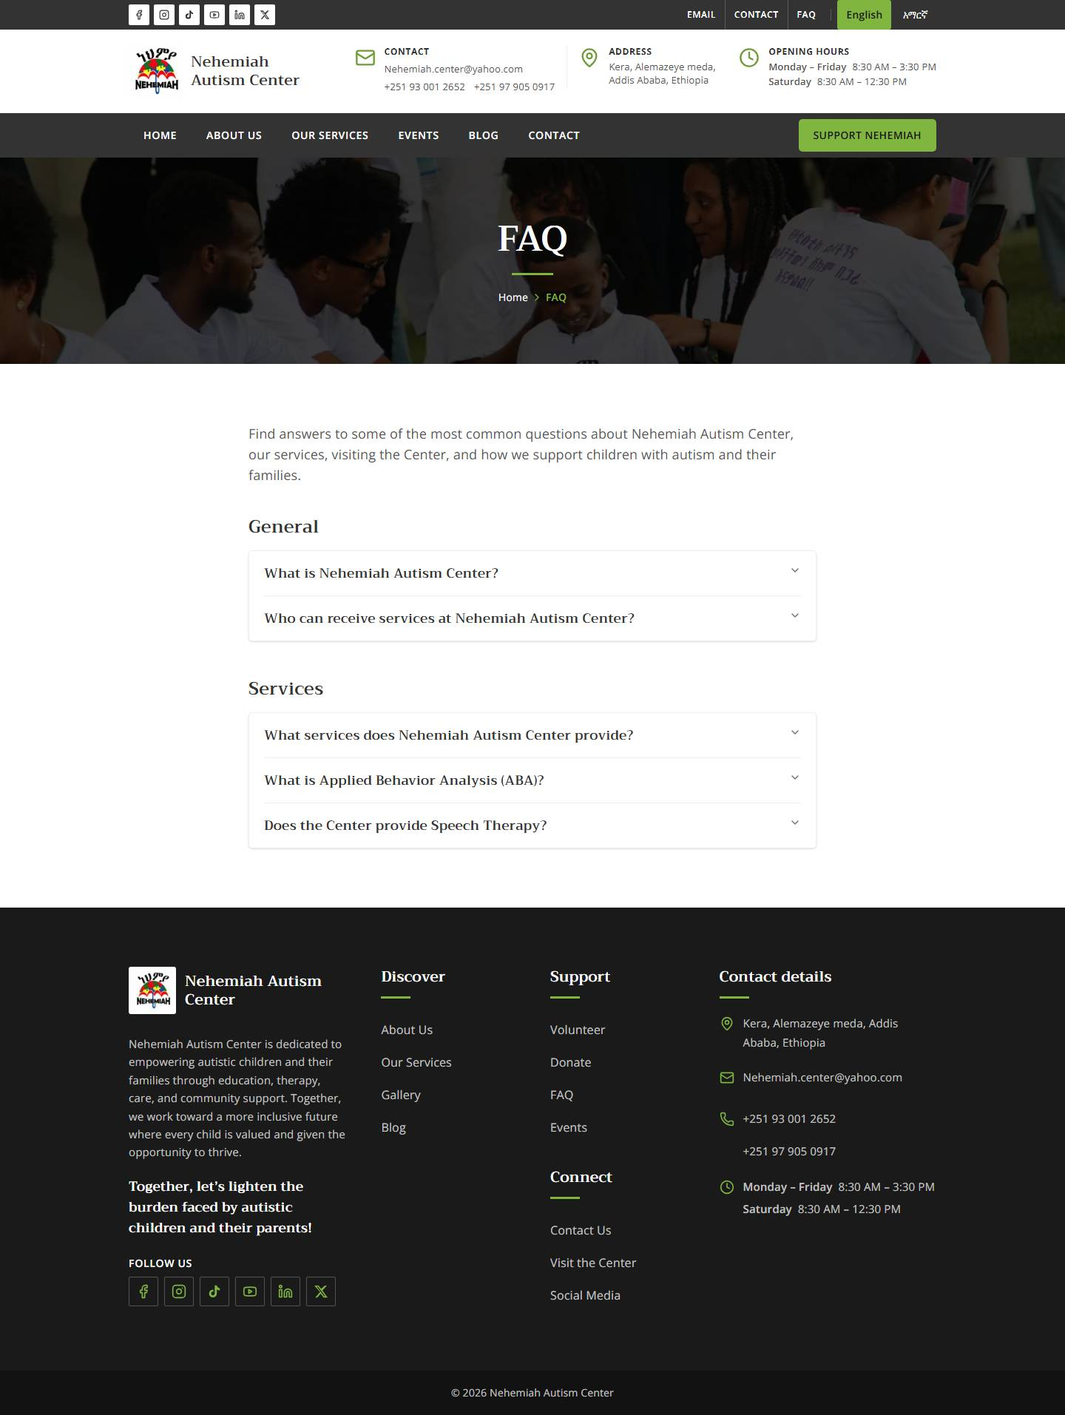
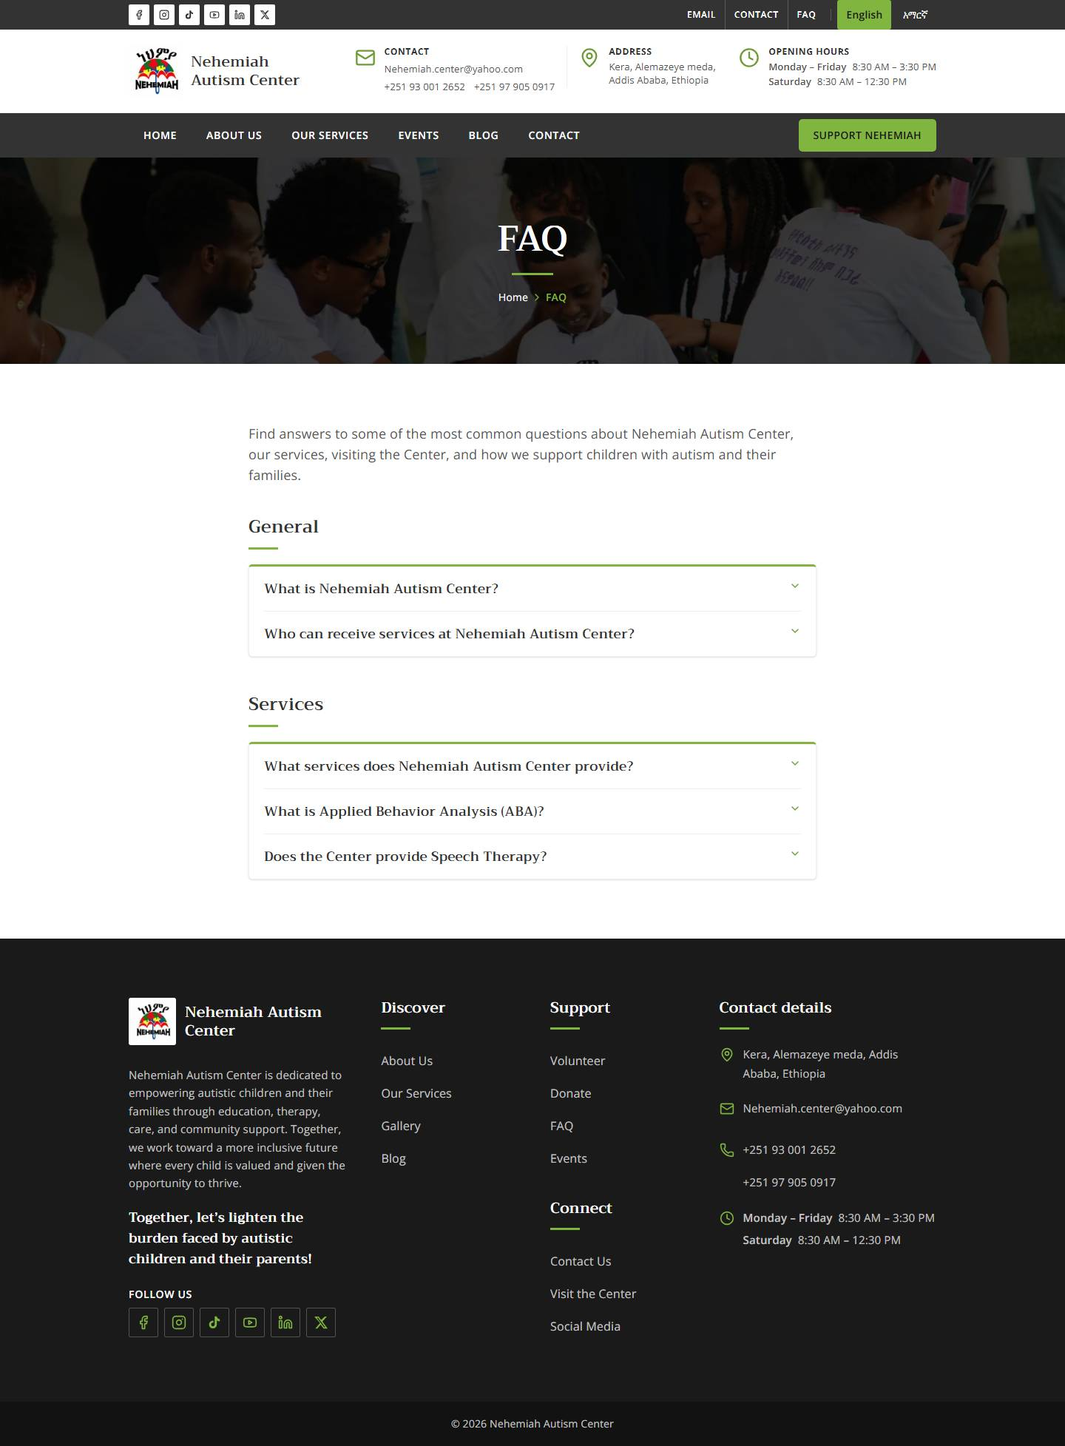
docs: second-pass review of the Generosity redesign
Records the independent re-verification (tsc, eslint, prettier, 144 unit tests,
fresh build, 274 browser tests all passing on the inherited code), the three
spec gaps the review found, and the final results after closing them (149 unit
tests, 274 browser tests).

- design-gap: new section listing where the build still differs from the written
  spec and why (footer grouping, single-word headings, closing CTA, header at
  tablet widths, map capture note)
- visual-review: states exactly what was viewed by eye vs covered only by
  automated checks; corrects the Google Maps note (lazy-loaded, renders after a
  wait)
- implementation / test-results: second-pass changes, run history, port notes
- founder-handoff: preview now on port 3004; stale servers on 3002/3003 flagged
- evidence: regenerated the five full-page images whose content changed; added
  three homepage gallery images

diff --git a/docs/frontend-review/NAC-GENEROSITY-IMPLEMENTATION.md b/docs/frontend-review/NAC-GENEROSITY-IMPLEMENTATION.md
@@ -58,7 +58,7 @@ The mobile sheet keeps the Radix focus trap, Escape and focus return. Its naviga
 
 **Feature strip.** Three cards, centre green, overlapping the hero by 64px from 1024px: Volunteer With Us · Support Our Mission · Partner With Us. They reuse approved button labels and existing routes; no new copy.
 
-**Homepage order.** Hero → feature strip → introduction (name, the hero continuation, intro, description, tagline; offset-green photo) → services (the three approved therapies) → impact (dark photographic band, bright-green cards for the three existing figures) → events → testimonials → blog → gallery (square grid) → location → closing CTA (dark photographic).
+**Homepage order.** Hero → feature strip → introduction (name, the hero continuation, intro, description, tagline; offset-green photo) → services (the three approved therapies) → impact (dark photographic band, bright-green cards for the three existing figures) → events → testimonials → blog → gallery (centred category filter and a four-column grid of eight photographs: the gallery browser in `preview` mode) → location → closing CTA (dark photographic).
 
 **Footer.** Four columns (brand, mission sentence, tagline and social; Discover; Support + Connect; contact details), green dividers under headings, separate darker copyright bar.
 
@@ -84,6 +84,9 @@ The mobile sheet keeps the Radix focus trap, Escape and focus return. Its naviga
 | `SectionHeading` gained `highlight` (default on); `eyebrow` kept | Last-word highlight |
 | `EventCard` / `BlogCard` gained a `horizontal` prop | A single card in a 1140px section |
 | `GalleryBrowser` thumbnails get a green hover overlay with a plus icon | Template detail; the lightbox, filter and focus return are untouched |
+| `GalleryBrowser` gained a `preview` prop; the homepage uses it instead of a hand-built link grid (second pass) | Spec §15 asks for category controls and about four images per row on the homepage. Preview mode shows only categories that really have photographs (3 of 13; the empty ones stay on `/gallery`), no counts, a centred filter, at most 8 tiles in 4 columns, and keeps the lightbox. The full-page behaviour is unchanged (the existing gallery tests still pass untouched) |
+| `GALLERY_PREVIEW_IDS` 6 → 8 photographs (`mascot-cones`, `walk-crowd` added) | Two full rows of four. Existing demonstration photographs only |
+| FAQ: green divider under each category heading, green top rule on the panel, green chevrons, open question in dark green (second pass) | Spec §20 asks for green accents. Done with `className` on the existing accordion, so the shadcn primitive is untouched. Contrast: chevron 3.3 : 1 (graphics need 3), open text 5.3 : 1 |
 | New: `PhotoSection`, `FeatureStrip`, `PAGE_BANNERS` | Shared dark photographic band; feature strip; banner photographs |
 | Footer tagline retained | A unit test caught that the first rewrite dropped it; restored, not the test |
 
@@ -92,11 +95,18 @@ The mobile sheet keeps the Radix focus trap, Escape and focus return. Its naviga
 New: `PhotoSection.tsx`, `FeatureStrip.tsx`.
 Rewritten: `globals.css`, `Container`, `Section`, `ButtonLink`, `SectionHeading`, `SocialLinks`, `LanguageSwitcher`, `SiteHeader`, `SiteFooter`, `PageBanner`, `HeroSection`, `ImpactStats`, `ClosingCtaSection`, `HomePage`, `ServiceCards`, `EventCard`, `BlogCard`, `TestimonialsSection`.
 Edited: `fonts.ts`, `media.ts`, `ContactDetails`, About / Services / Volunteer / FAQ / Contact / Donate / Events / Event detail / Blog / Blog post / Gallery pages, `GalleryBrowser`, `ContactForm`, `LocationSection`, `BackToTop`, `error.tsx`, `not-found.tsx`, public `layout.tsx`.
+Second pass edited: `HomePage.tsx`, `GalleryBrowser.tsx`, `gallery/data/index.ts`, `FaqPage.tsx`.
 Tests edited: `tests/e2e/responsive.spec.ts`, `tests/e2e/site.spec.ts`, `tests/e2e/links-and-interactions.spec.ts` (each change explained in `NAC-GENEROSITY-TEST-RESULTS.md`).
+Tests added (second pass): five unit tests for the gallery preview in `tests/unit/gallery/gallery.test.tsx`. No existing test was edited in the second pass.
 
 ## 8. Not done / limits
 
 - The template's source was unavailable, so exact spacing, icon shapes and hover behaviour are interpretations of the written spec.
 - The hero and banner photographs are the existing demonstration images (register MD-01 still applies; they include identifiable children).
 - Amharic outside the document's own text is still English fallback or provisional, as in PR #3.
-- The homepage gallery is a link grid; the filter and lightbox are on `/gallery`.
+- The homepage now ships the interactive gallery (filter and lightbox), so its first-load JavaScript grew from 111 kB to 139 kB (+28 kB, mostly the dialog library). It could be lazy-loaded below the fold if page weight matters more than simplicity.
+- The footer keeps the link groups from the approved content document (Discover / Support / Connect); it does not follow the spec's suggested grouping (see the design-gap report, §6).
+
+## 9. Second pass: re-verification and gap closure
+
+A first pass produced everything above. A second session did not trust that record: it re-ran type-check, lint, format, unit tests, a fresh production build and the full browser suite on the inherited code (all green, same numbers as reported), then reviewed the pages in a real browser against the written spec. That review found three spec gaps, closed in this pass: the homepage gallery (no category controls, three columns, six photographs), the FAQ (no green accent), and documentation of the remaining deliberate differences. Things looked at and left alone on purpose are listed in the design-gap report, §6.

diff --git a/docs/frontend-review/NAC-GENEROSITY-TEST-RESULTS.md b/docs/frontend-review/NAC-GENEROSITY-TEST-RESULTS.md
@@ -1,6 +1,6 @@
 # Generosity-inspired redesign — test results
 
-Branch `experiment/generosity-visual-redesign`. Windows 11, Node 22, pnpm 10.32, Playwright 1.58 with Chromium. Browser tests ran against the **production build** (`NEXT_STANDALONE=0 pnpm build`, then `next start -p 3002`), not the dev server. The final numbers below are from the final code; the last source change (a shadow on the feature strip) was followed by a full re-run of every check.
+Branch `experiment/generosity-visual-redesign`. Windows 11, Node 22, pnpm 10.30, Playwright 1.58 with Chromium. Browser tests ran against the **production build** (`NEXT_STANDALONE=0 pnpm build`, then `next start`), not the dev server. The numbers below are from the **final code of the second pass**: its last source change (homepage gallery preview and FAQ accents) was followed by a rebuild and a full re-run of every check. Nothing in `frontend/` changed after that run (only documentation and screenshots).
 
 ## 1. Final results
 
@@ -9,9 +9,9 @@ Branch `experiment/generosity-visual-redesign`. Windows 11, Node 22, pnpm 10.32,
 | `tsc --noEmit` | **0 errors** |
 | `eslint .` | **0 problems** |
 | `prettier --check src tests` | **pass** |
-| Unit and component tests (`vitest run`) | **144 passed, 0 failed** (9 files). No unit test file was edited |
-| Production build (`NEXT_STANDALONE=0`) | **passed**, 33 static pages |
-| Playwright (Chromium) on the production build | **274 passed, 0 failed**, 29 skipped |
+| Unit and component tests (`vitest run`) | **149 passed, 0 failed** (9 files): the 144 from the first pass plus 5 new gallery-preview tests. No existing test was edited |
+| Production build (`NEXT_STANDALONE=0`) | **passed**, 33 static pages. Homepage first-load JS 139 kB (was 111 kB before the interactive gallery) |
+| Playwright (Chromium) on the production build | **274 passed, 0 failed**, 29 skipped, no retries |
 
 The 29 skipped are the evidence-capture specs, which run only when `CAPTURE_EVIDENCE=1`. They were skipped on purpose: they write into `docs/frontend-review/evidence/` (PR #3's "before" images), which this experiment must not overwrite. The new screenshots were taken with a separate script into `evidence-generosity/`.
 
@@ -23,7 +23,9 @@ What the 274 browser tests cover (unchanged suite, run against the redesign): ev
 |---|---|---|
 | 1 (first full run on the redesign) | 266 passed, **8 failed** | see below |
 | 2 (after fixes) | 274 passed, 0 failed | |
-| Final (after the last visual tweak) | 274 passed, 0 failed | |
+| 3 (first pass, after the last visual tweak) | 274 passed, 0 failed | |
+| 4 (second pass: fresh build of the inherited code, before any change) | 274 passed, 0 failed | Independent re-verification of the first pass. tsc, eslint, prettier and vitest (144) were also re-run and passed |
+| 5 (second pass, final code) | 274 passed, 0 failed | After the gallery preview and FAQ changes, on a rebuilt app. Also 149 unit tests passing |
 
 The 8 failures in run 1:
 
@@ -35,7 +37,7 @@ The 8 failures in run 1:
 
 ## 3. Test changes (all three are in `tests/e2e/`)
 
-No assertion was removed, and no unit or content-integrity test was touched. The three changes:
+No assertion was removed, and no existing unit or content-integrity test was touched. (The second pass added five new unit tests for the gallery preview in `tests/unit/gallery/gallery.test.tsx` and changed no existing test.) The three changes made in the first pass:
 
 1. **`responsive.spec.ts` — header tap targets.** Before: every `a, button` in the header ≥ 44 × 44 px. Now: on phones (< 768px) every header control is still ≥ 44px; on larger screens the main navigation, the Support button and the menu button are still ≥ 44px; only the dense desktop utility bar (28px social squares, 24px inline contact links, 40px utility and language links) is held to **24px**, the WCAG 2.5.8 AA minimum, because that bar is specified at that size. **This is a deliberate relaxation, limited to those controls.**
 2. **`links-and-interactions.spec.ts` — contact links.** `a[href="tel:…"]` became `a[href="tel:…"]:visible`. The intent (a visitor can see a dial link) is unchanged; a redesigned header legitimately contains a hidden duplicate first.
@@ -70,6 +72,8 @@ pnpm exec eslint .
 pnpm exec prettier --check src tests
 pnpm exec vitest run
 $env:NEXT_STANDALONE = "0"; pnpm build
-pnpm exec next start -p 3002          # leave running, open a second terminal:
-$env:PLAYWRIGHT_BASE_URL = "http://localhost:3002"; pnpm exec playwright test
+pnpm exec next start -p 3004          # leave running, open a second terminal:
+$env:PLAYWRIGHT_BASE_URL = "http://localhost:3004"; pnpm exec playwright test
 ```
+
+Stop any running server before `pnpm build`: a server left running keeps serving the previous pages from memory (observed in the second pass, where older servers on ports 3002 and 3003 kept showing the pre-change homepage after a rebuild). Use a free port, and never 3001, which is the existing site.

diff --git a/docs/frontend-review/NAC-GENEROSITY-VISUAL-REVIEW.md b/docs/frontend-review/NAC-GENEROSITY-VISUAL-REVIEW.md
@@ -47,7 +47,7 @@ The template's files were not supplied, so this review checks the build against 
 - Single-word section headings ("Testimonials", "Volunteer") have no green last word, because there is no second word to highlight.
 - Between 768 and 1023px the white brand row shows only the logo and name, leaving empty space on the right; the info blocks appear from 1024px.
 - Below 420px the green Support button is not in the nav bar (it is the first button in the hero and in the menu), to keep the bar from overflowing at 320px.
-- The Contact page's Google Maps iframe can appear blank in a full-page screenshot (third-party embed and capture timing); it renders in the form-errors capture and in the browser.
+- The Google Maps iframe (Contact page and homepage location section) is lazy-loaded, so a quick screenshot shows an empty frame. Verified in the second pass: with an 8-second wait it renders fully, and `contact-form-errors-1440.jpg` shows it rendered.
 - Alt text, Amharic wording and photographs are unchanged from PR #3: demonstration photographs, provisional Amharic labels, no native-speaker review.
 - Looks were judged by me on screen, not by a designer or in a usability session.
 
@@ -61,3 +61,30 @@ The template's files were not supplied, so this review checks the build against 
 - Amharic: `about-am-1440-full.jpg`, `contact-am-1440-full.jpg`
 - Phones: `contact-en-375-full.jpg`, `gallery-en-375-full.jpg`, `mobile-menu-en-375.jpg`, `mobile-menu-am-375.jpg`
 - States: `gallery-lightbox-1440.jpg`, `contact-form-errors-1440.jpg`, `not-found-en-1440.jpg`
+- Second pass (regenerated or new): `home-{en,am}-1440-full.jpg`, `home-{en,am}-390-full.jpg`, `faq-en-1440-full.jpg`, `home-gallery-{en,am}-1440.jpg`, `home-gallery-en-375.jpg`
+
+## 7. Second review pass
+
+A later session re-reviewed the build in a real browser against the written spec instead of relying on the first pass's notes. What it looked at, and what it did not:
+
+**Looked at with my own eyes (production build, Chromium):**
+
+- English homepage at 1440, all ten screens from header to copyright bar, plus the new gallery section afterwards.
+- English homepage first screen at 320, 375, 390, 768 and 1024; Amharic first screen at 1440, 375 and 320.
+- English pages at 1440: About, Services, Events, Gallery, Contact, Donate, FAQ (before and after the accent change) and Volunteer; the mobile menu; the homepage gallery at 1440 (English and Amharic), 768 and 375.
+
+**Covered only by the automated checks in this pass** (every page in both languages at 320, 375, 390, 768, 1024 and 1440: no horizontal overflow, no broken images, no console errors, axe WCAG A/AA, plus the tap-target, keyboard and focus tests): Blog and the detail pages, Amharic secondary pages, and phone-width secondary pages. The first pass's screenshots exist for several of these but were not re-viewed.
+
+**What the review found**
+
+| # | Finding | Action |
+|---|---|---|
+| 1 | Homepage gallery was a three-column link grid of six photographs with no category controls; the spec (§15) asks for category controls and about four images per row | Fixed: the gallery browser in `preview` mode (centred filter limited to categories that have photographs, four columns, eight photographs, same lightbox) |
+| 2 | FAQ accordion had no green accent (spec §20) | Fixed: green divider, top rule and chevrons, open question in dark green |
+| 3 | Footer link grouping differs from the spec's suggestion | Left: it follows the approved content document and a test asserts it. Documented (design-gap §6) |
+| 4 | Closing CTA wraps its three buttons 1 + 2 | Left: deliberate hierarchy (one green primary, two outlined). Documented |
+| 5 | Map frame looked empty in screenshots | Not a defect: lazy-loaded, renders after a wait. Documented |
+
+What matched the spec on sight: the three-level header with 40px charcoal bar, square social icons, white information row and 60px charcoal nav with a full-height green active tab and green Support button; the 640px photographic hero with 70% overlay, uppercase white headline with green words and two rectangular buttons; the feature strip overlapping the hero; Trirong headings with green word and divider; the dark photographic impact band with three symmetric green cards (no invented fourth); the event card showing "Date to be confirmed"; the dark four-column footer with separate copyright bar; the consistent banner on every page; Amharic with Ethiopic type, no forced capitals and sensible wrapping; phone layouts with no overflow.
+
+Limits: still one reviewer, by eye, with no designer, no real visitors, no Firefox or Safari, and no pixel comparison against the real template (not available).

diff --git a/docs/frontend-review/NAC-GENEROSITY-FOUNDER-HANDOFF.md b/docs/frontend-review/NAC-GENEROSITY-FOUNDER-HANDOFF.md
@@ -12,7 +12,7 @@ An **experiment**: the same Nehemiah website, content and behaviour, dressed in 
 
 - A **three-level top**: a dark strip (social icons and Email / Contact / FAQ links, plus the language switch), a white row with the logo, address, phone, email and opening hours, and a dark menu bar with the current page in solid green and a green "Support Nehemiah" button.
 - A **big photograph at the top of the home page** with the welcome heading in large white capitals and "Nehemiah Autism Center" in green, and two buttons.
-- Three **get-involved cards** under it (Volunteer With Us, Support Our Mission, Partner With Us), then the services (still exactly ABA, Speech and Language Therapy, Food Therapy), the three real figures (90, 65+, 15) on green cards, the event, the testimonials, the blog post, the gallery, the map and a closing "Help Us Reach More Children" panel.
+- Three **get-involved cards** under it (Volunteer With Us, Support Our Mission, Partner With Us), then the services (still exactly ABA, Speech and Language Therapy, Food Therapy), the three real figures (90, 65+, 15) on green cards, the event, the testimonials, the blog post, the gallery (eight photographs, four to a row, with a small category filter and a click-to-enlarge viewer), the map and a closing "Help Us Reach More Children" panel.
 - A **dark, four-column footer**, and **photo banners** at the top of every other page.
 - Everything still works in English and Amharic, on phones and desktops. The language switch, the honest email-based contact form, the "donations coming soon" page, the FAQ, and the gallery filter and photo viewer all behave as before.
 
@@ -37,19 +37,24 @@ Everything else uses the colours in the brief.
 3. **Top-bar links.** The brief suggested "Email / Contact / Support". "Support" is already the big green button, so I used **FAQ** for the third link. Say if you prefer something else.
 4. **The "get involved" cards** use only existing button names and pages. If you want a short sentence under each, send the approved text.
 5. **Amharic** wording for the small labels is still the proposed (provisional) set from PR #3 and has not been checked by a native speaker.
+6. **Footer link groups.** The brief suggested a different grouping than the one in your approved content document (for example Events under "Discover"). I kept the approved grouping, and an automated test checks it. Say if you want the brief's grouping instead.
 
 ## How to look at it on your computer
 
-The preview was left running at **http://localhost:3002**. If it is not running (for example after a restart), open PowerShell and run:
+**Use http://localhost:3004.** It serves the final build and was left running. Port 3001 (your existing site) is untouched.
+
+Two older preview servers from earlier work are still running on **3002** and **3003**. They hold an earlier version of the homepage in memory (before the gallery filter), so **do not use them**. They can be stopped with Ctrl+C in the window that started them, or from PowerShell with `Get-NetTCPConnection -LocalPort 3002,3003 -State Listen | ForEach-Object { Stop-Process -Id $_.OwningProcess }`.
+
+If 3004 is not running (for example after a restart), open PowerShell and run:
 
 ```powershell
 cd C:\Users\naods\Documents\nac-generosity-wt\frontend
 $env:NEXT_STANDALONE = "0"
 pnpm build
-pnpm exec next start -p 3002
+pnpm exec next start -p 3004
 ```
 
-Then open http://localhost:3002 in a browser. Stop it with Ctrl+C. Pictures of the result are in `docs/frontend-review/evidence-generosity/` (compare with the old look in `docs/frontend-review/evidence/`).
+Then open http://localhost:3004 in a browser (add `/am` for Amharic). Stop it with Ctrl+C. **Stop the server before running `pnpm build` again**: a server that is still running keeps showing the old pages. Any free port works instead of 3004 (3002 once the old server is stopped). Pictures of the result are in `docs/frontend-review/evidence-generosity/` (compare with the old look in `docs/frontend-review/evidence/`).
 
 ## Known limits
 

diff --git a/docs/frontend-review/NAC-GENEROSITY-DESIGN-GAP.md b/docs/frontend-review/NAC-GENEROSITY-DESIGN-GAP.md
@@ -70,4 +70,19 @@ All other spec colours are used as specified.
 - **Utility links**: Email · Contact · FAQ. The spec says "Email / Contact / Support", but Support is already the green call-to-action button, so FAQ takes its place in the dark bar.
 - **Feature strip content**: Volunteer With Us · Support Our Mission · Partner With Us, using existing labels and routes.
 - **Hero photograph**: the existing demonstration photograph, darkened. Replacing demo media remains an open item from PR #3 (register MD-01).
-- **Homepage gallery**: stays a link grid to the gallery page; the filter and lightbox live on the gallery page.
+- **Homepage gallery**: the spec describes a "Photo Archives" section with category controls and about four images per row. It is built by reusing the gallery browser in `preview` mode: a centred filter limited to the three categories that actually have photographs, a four-column grid of eight existing photographs, and the same lightbox. The ten empty categories are not shown on the homepage (an empty chip would lead to an empty grid) and remain on `/gallery`. (The first pass had kept a plain link grid; the second pass closed this gap.)
+
+## 6. Where the build still differs from the written spec
+
+Checked in a real browser in the second pass. None of these is a defect; each is a choice, a limit of the available content, or an open observation.
+
+| # | Spec says | Build does | Why |
+|---|---|---|---|
+| 1 | Footer columns: Organization (About, Services, Contact), Support (Volunteer, Donate, FAQ), Discover (Events, Blog, Gallery), About/Contact | Four columns: brand and mission; Discover (About Us, Our Services, Gallery, Blog); Support (Volunteer, Donate, FAQ, Events) with a Connect group beneath; contact details | The link groups come from the approved content document, and a content-integrity test asserts them ("uses the document footer groups"). Regrouping would change approved structure, so it is left for the founder |
+| 2 | Section headings with a green-highlighted word, including testimonials, blog and gallery | "Testimonials", "Blog" and "Gallery" are single words, so they carry the green divider but no green word; FAQ category headings likewise | Highlighting needs a second word, and the headings' wording is approved content |
+| 3 | Closing CTA: "Green button" | One green primary ("Support Our Mission") on its own row, and two outlined secondaries ("Volunteer With Us", "Partner With Us") on a second row | Keeps the two existing approved secondary actions without making three equal green buttons. Deliberate and documented in the component |
+| 4 | Utility links "Email / Contact / Support" | Email · Contact · FAQ | "Support" is already the green nav button |
+| 5 | Hero photograph: prefer a group or community picture | `heroPrimary` (children playing a game with adults watching), the photograph already designated for the hero | Existing demonstration media only; replacement is register item MD-01. Photographs of children are now more prominent: see the founder handoff |
+| 6 | Header white row shows the three information blocks | Three blocks from 1280px, two (contact, address) at 1024px, logo only at 768px | The spec says not to force the desktop rows into small widths. Between 768 and 1023px the row has empty space on the right |
+| 7 | Event, blog and testimonial content | Unchanged from PR #3 (event date "to be confirmed", blog date "to be confirmed", logo as blog placeholder image) | Honest placeholders; nothing was invented to fill the layout |
+| 8 | Contact and homepage location map | A Google Maps iframe (unchanged from PR #3) | Not a difference, but a capture trap: the iframe is `loading="lazy"`, so a quick screenshot shows an empty white frame. With an 8-second wait it renders fully (pin on Nehemiah Autism Center, Kera), and `contact-form-errors-1440.jpg` also shows it rendered. Needs internet access to load |
